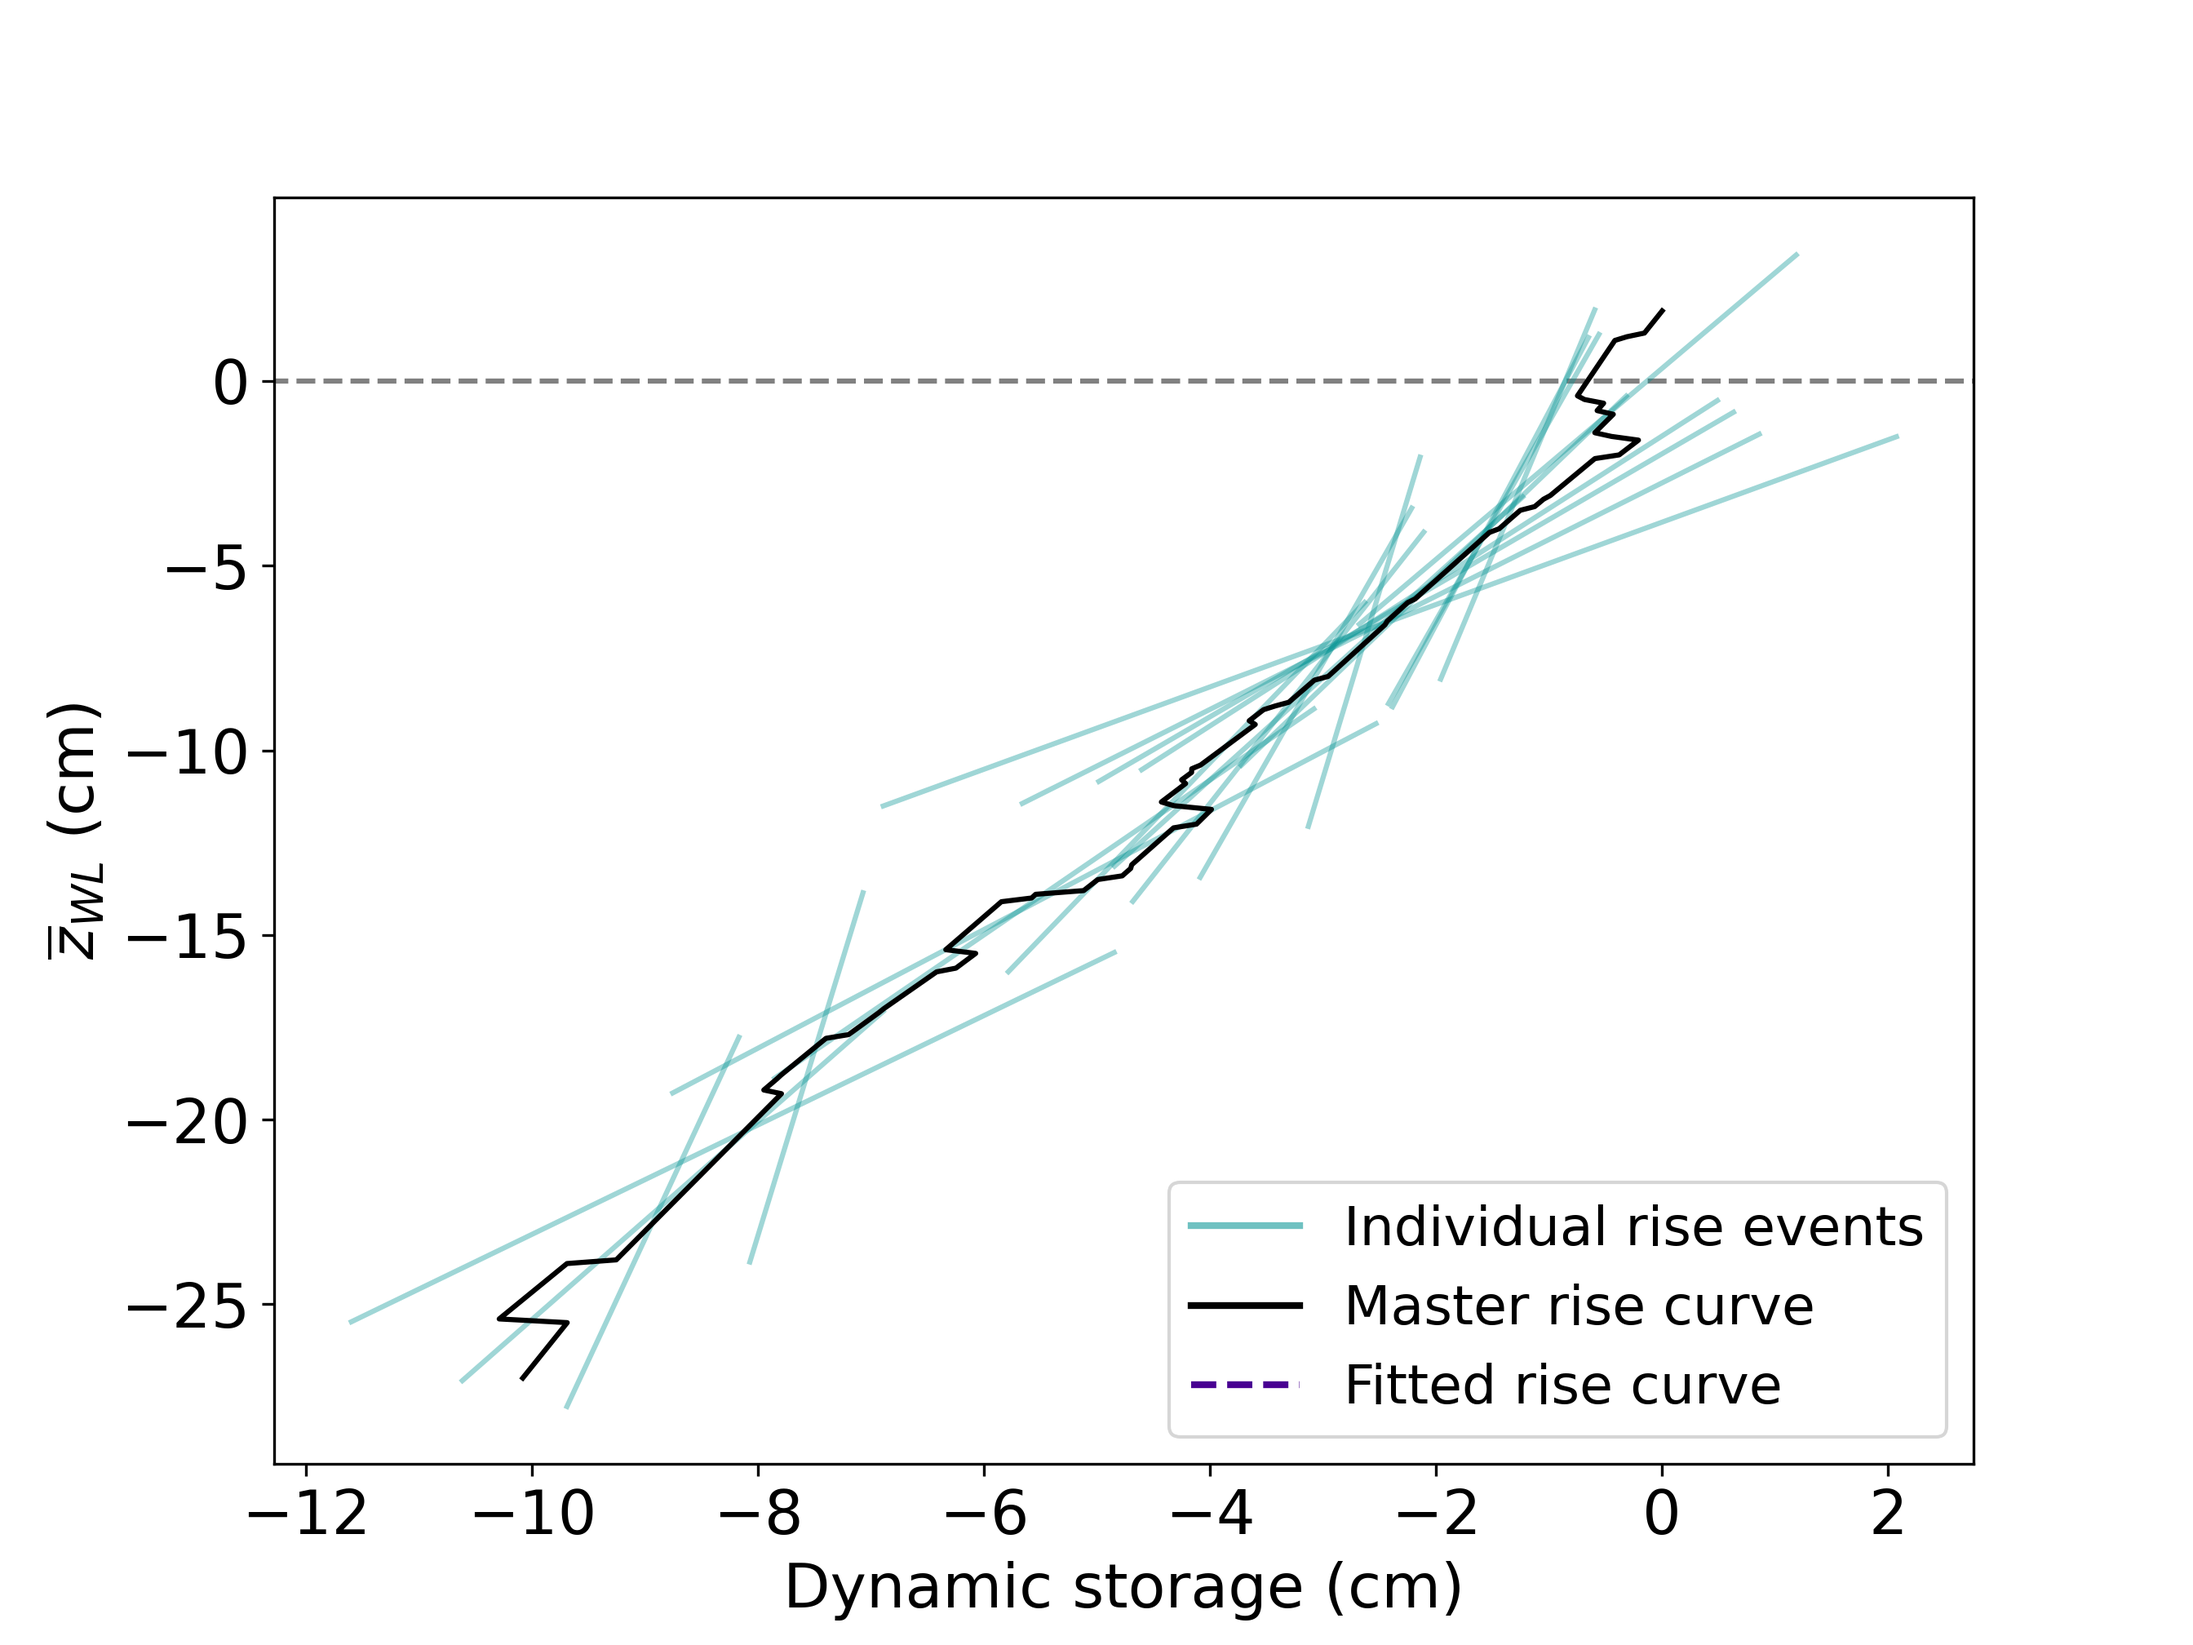
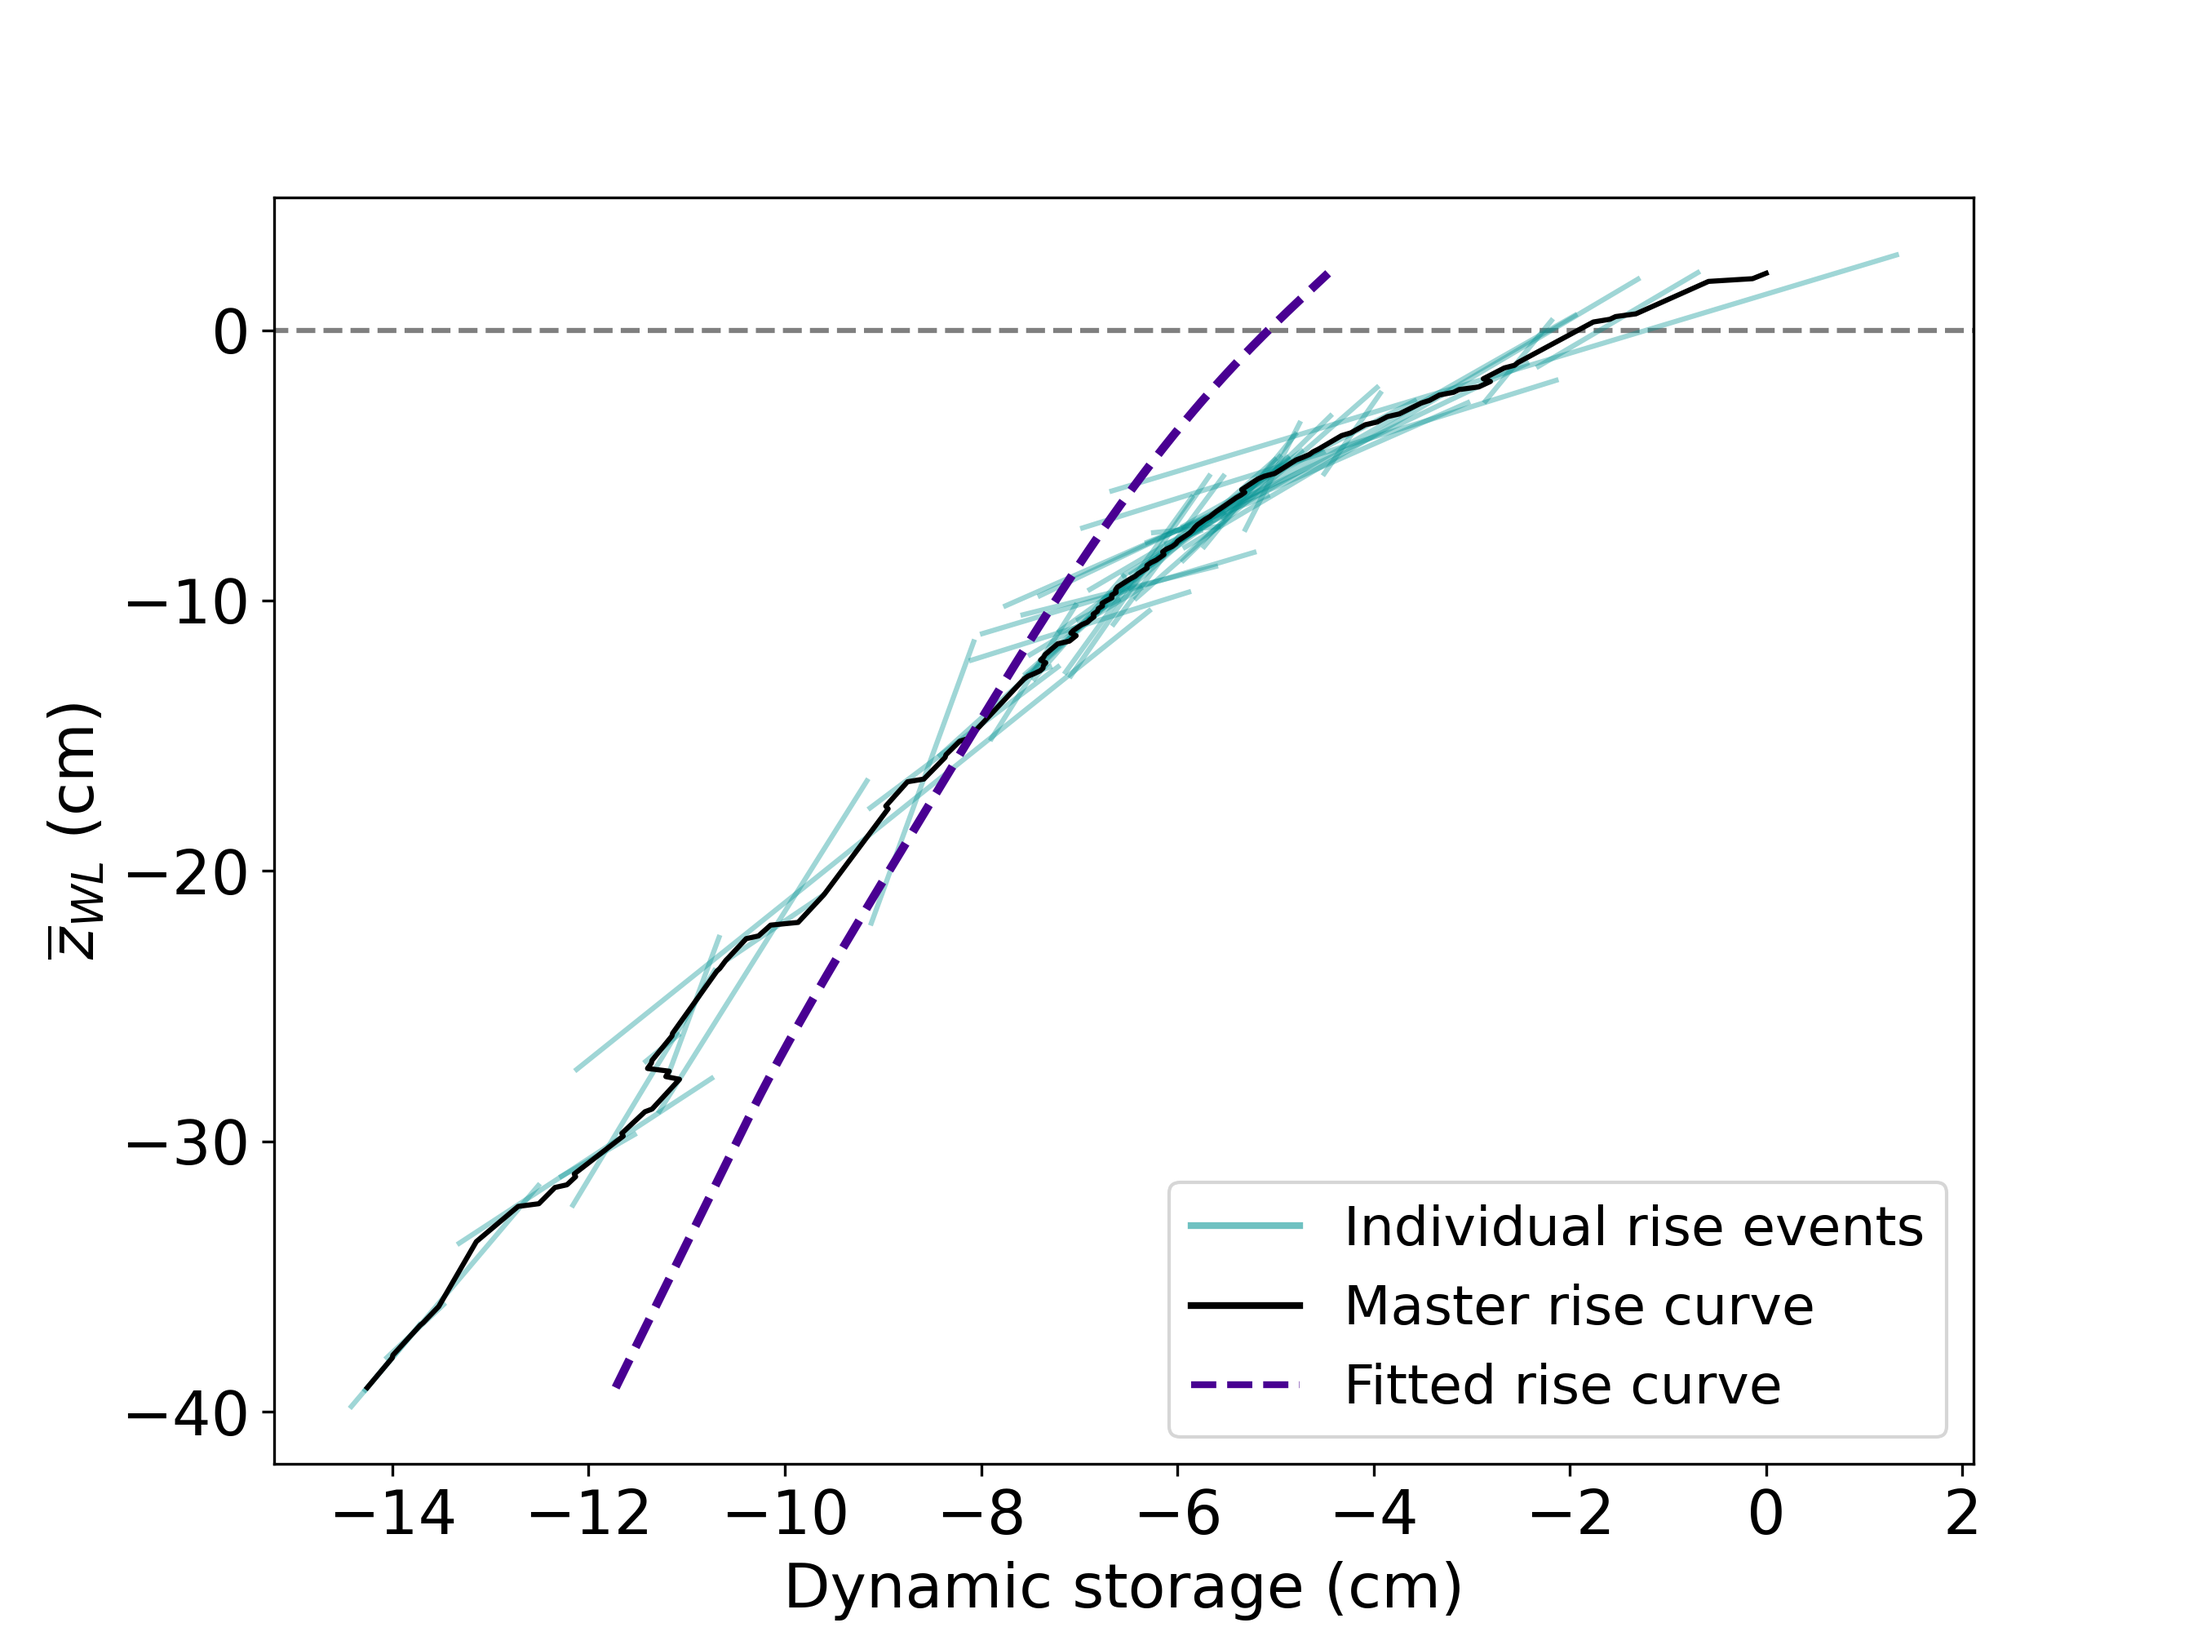
changes for testing, not curical commit, allow to switch branches

diff --git a/spowtd/spowtd_debug_SA.py b/spowtd/spowtd_debug_SA.py
@@ -15,11 +15,11 @@ import pandas as pd
 
 load = 1
 if load == 1:
-    connection = sqlite3.connect("/data/leuven/324/vsc32460/AC/spowtd/Brunei100_44_GS_smooth_IMERG_4C_OG.sqlite3")  # "/data/leuven/324/vsc32460/AC/spowtd/Brunei100_44_GS_smooth_IMERG_load_remove.sqlite3"
-    precipitation_data_file = open('/data/leuven/324/vsc32460/AC/spowtd/src/precipitation_Brunei_IMERG_CDF.txt', mode='r') #'/data/leuven/324/vsc32460/AC/spowtd/src/throughfall_Brunei_30min.txt' precipitation_Brunei_IMERG_CDF.txt
+    connection = sqlite3.connect("/data/leuven/324/vsc32460/AC/spowtd/Brunei100_44_GS_smooth_throughfall_NOC_OG.sqlite3")  # "/data/leuven/324/vsc32460/AC/spowtd/Brunei100_44_GS_smooth_IMERG_load_remove.sqlite3"
+    precipitation_data_file = open('/data/leuven/324/vsc32460/AC/spowtd/src/throughfall_Brunei_30min.txt', mode='r') #'/data/leuven/324/vsc32460/AC/spowtd/src/throughfall_Brunei_30min.txt' precipitation_Brunei_IMERG_CDF.txt
     evapotranspiration_data_file = open('/data/leuven/324/vsc32460/AC/spowtd/src/evapotranspiration_no_intercep_Brunei_30min.txt') #'/data/leuven/324/vsc32460/AC/spowtd/src/evapotranspiration_no_intercep_Brunei_30min.txt'
     water_level_data_file = open('/data/leuven/324/vsc32460/AC/spowtd/src/waterlevel_Brunei_20min_3times_windowaverage_GS.txt') #'/data/leuven/324/vsc32460/AC/spowtd/src/waterlevel_Brunei_20min_3times_windowaverage_GS.txt'
-    time_zone_name = 'Asia/Brunei' #'Africa/Lagos' #'Asia/Brunei'
+    time_zone_name = 'Africa/Lagos' #'Africa/Lagos' #'Asia/Brunei'
     cursor = connection.cursor()
     load_data(connection,precipitation_data_file,evapotranspiration_data_file,water_level_data_file,time_zone_name,)
     storm_rain_threshold_mm_h = 4.0

diff --git a/spowtd/plot_time_series.py b/spowtd/plot_time_series.py
@@ -52,7 +52,8 @@ def plot_time_series(
         cursor.execute("SELECT source_time_zone FROM time_grid")
         time_zone_name = cursor.fetchone()[0]
     time_zone = pytz.timezone(time_zone_name)
-
+    
+    fontsize=22
     fig = plt.figure()
     if plot_evapotranspiration:
         zeta_axes = fig.add_subplot(3, 1, 1)
@@ -64,10 +65,14 @@ def plot_time_series(
     else:
         zeta_axes = fig.add_subplot(2, 1, 1)
         rain_axes = fig.add_subplot(2, 1, 2, sharex=zeta_axes)
-        rain_axes.set_ylabel('Rainfall intensity, mm / h')
+        rain_axes.set_ylabel('Precipitation \nintensity [mm/h]', fontsize = fontsize)
     zeta_axes.xaxis_date(tz=time_zone)
-    zeta_axes.set_ylabel('Water level, cm')
+    #zeta_axes.set_xlabel('Datetime (month-day hour)', fontsize = fontsize) 
+    zeta_axes.set_ylabel('Water level \n[cm]', fontsize =fontsize)
+    zeta_axes.tick_params(axis ='both', labelsize =fontsize)
     rain_axes.xaxis_date(tz=time_zone)
+    rain_axes.set_xlabel('Datetime [month-day hour]', fontsize =fontsize)
+    rain_axes.tick_params(axis ='both', labelsize =fontsize)
 
     cursor.execute(
         """

diff --git a/spowtd/classify.py b/spowtd/classify.py
@@ -88,7 +88,7 @@ def classify_interstorms(cursor, data_interval, rising_jump_threshold_mm_h):
                 """
          SELECT water_level.epoch,
                 zeta_mm,
-                rainfall_intensity_mm_h > 0.5 AS is_raining
+                rainfall_intensity_mm_h > 0.0 AS is_raining
          FROM grid_time
          JOIN rainfall_intensity
            ON rainfall_intensity.from_epoch = grid_time.epoch
@@ -271,7 +271,7 @@ def match_all_storms(
 
         # SA! If the 2 hours before and/or after are still raining (P >= 0.5 mm/h) then extend the P time window
 	    # SA! Still manual adjustment needed when used with in situ precipitation/throughfall.
-        drizzling = 1
+        drizzling = 0
         if drizzling == 1:
             for i in range(4):
                 if (rainfall_intensity_mm_h[jump_start-i-1]) >= (0.5):

diff --git a/spowtd/rise.py b/spowtd/rise.py
@@ -155,7 +155,7 @@ def compute_rise_offsets(cursor, reference_zeta_mm):
             del series_dictionary[element]
 
     # SA! remove unrealistic and outlier rise events
-    outliers_removal = 1
+    outliers_removal = 0
     if outliers_removal == 1:
 
         #SA! This part removes the unrealistic rise events by filtering for series_id with Sy > 1 and removing them.
